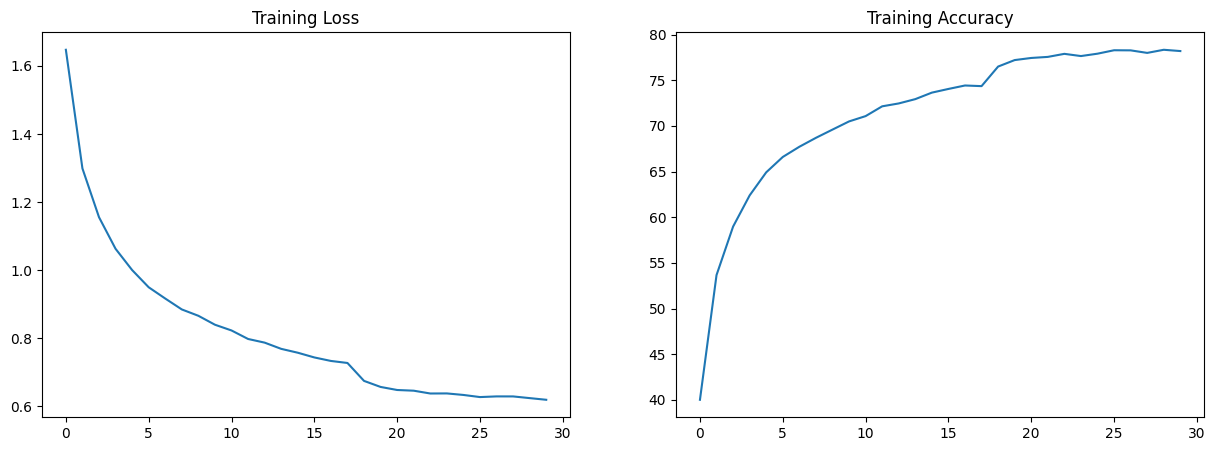
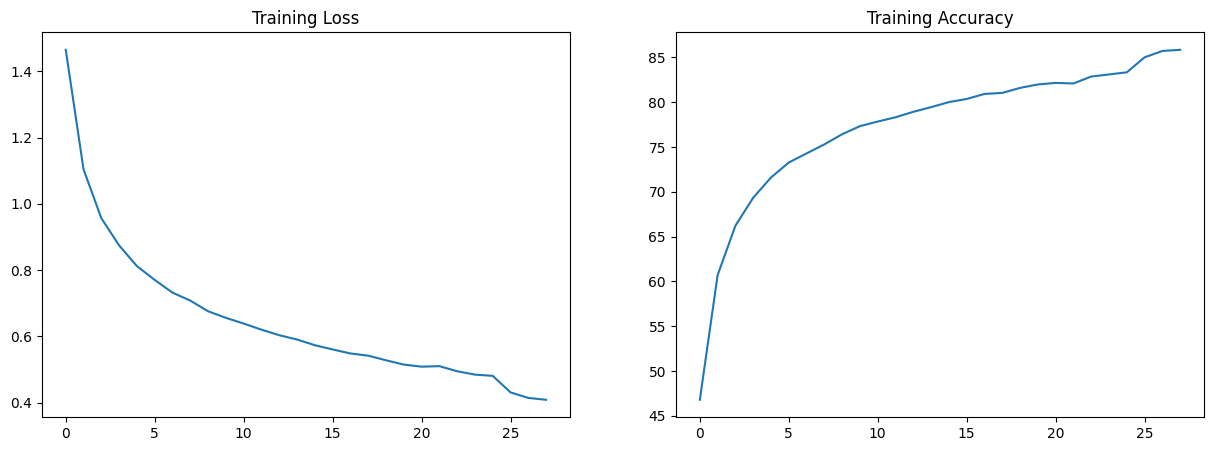
update readme

diff --git a/README.md b/README.md
@@ -18,13 +18,13 @@ import albumentations as A
 
 alb_transforms = [
     A.Normalize(mean, std),
-    A.Downscale(0.8, 0.95, p=0.2),
-    A.ColorJitter(0.1, 0.1, 0.1, 0.1, p=0.2),
-    A.ToGray(p=0.1),
     A.HorizontalFlip(p=0.5),
     A.ShiftScaleRotate(shift_limit=0.0625, scale_limit=0.1, rotate_limit=15),
-    # Since normalisation was the first step, mean is already 0, so fill_value = 0
-    A.CoarseDropout(max_holes=1, max_height=16, max_width=16, p=0.2, fill_value=0),
+    # Padding value doesnt matter here.
+    A.PadIfNeeded(64, 64, border_mode=cv2.BORDER_CONSTANT, value=0, p=1),
+    # Since normalisation was the first step, mean is already 0, so cutout fill_value = 0
+    A.CoarseDropout(max_holes=1, max_height=16, max_width=16, fill_value=0, p=0.6),
+    A.CenterCrop(32, 32, p=1),
     A.pytorch.ToTensorV2()
 ]
 ```
@@ -101,9 +101,9 @@ This module contains miscellaneous functions like detecting device and setting r
 
 ## The Results
 
-Best Train Accuracy: 78.34%
+Best Train Accuracy: 85.85%
 
-Best Test Accuracy: 85.25%
+Best Test Accuracy: 86.68%
 
 ![Training](assets/train.png)
 ![Testing](assets/test.png)
